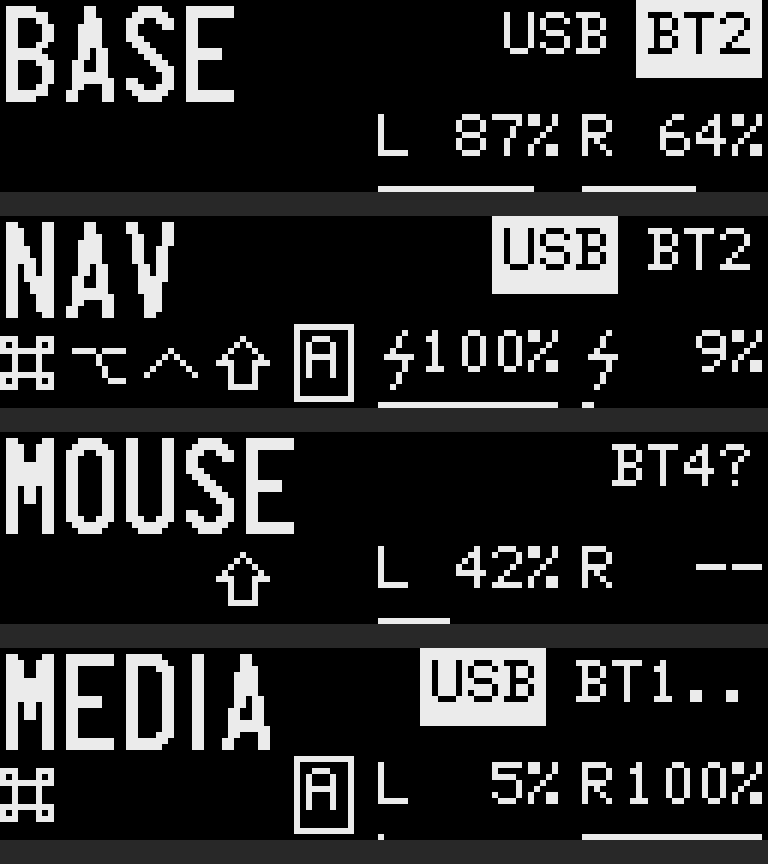
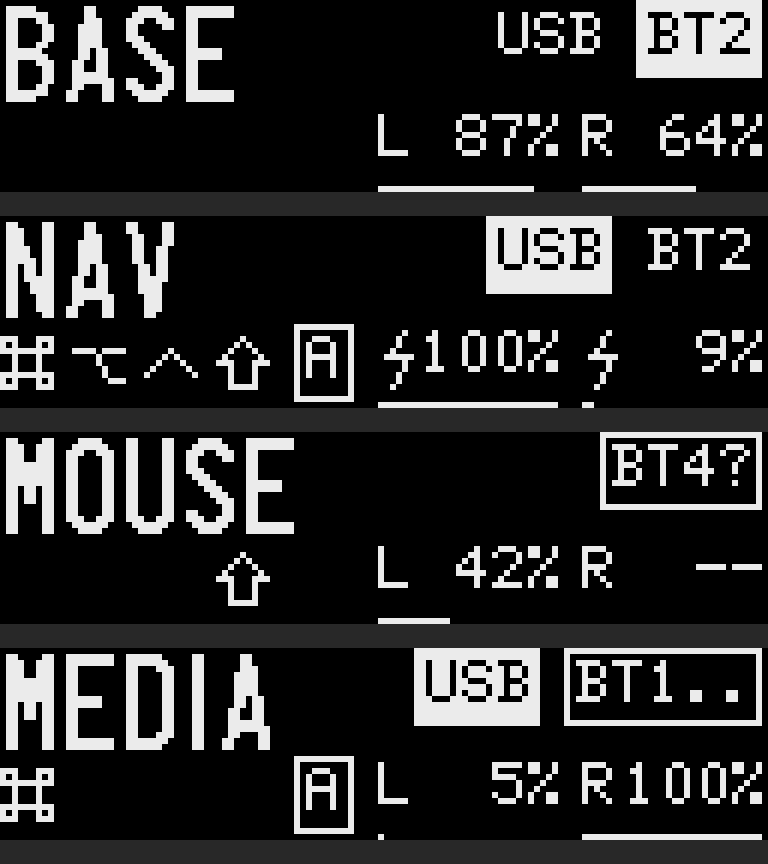
screen: the chosen output is outlined when it cannot be used
The USB/Bluetooth toggle sets a preference, and with only one link ready
the keyboard types on that one whatever was chosen. Choosing Bluetooth
while its profile was unpaired or its computer away therefore changed
nothing visible. The chosen link now gets an outline when it is not the
one in use, next to the filled box of the one that is.

Not yet seen on the panel.

diff --git a/src/status_view.rs b/src/status_view.rs
@@ -11,7 +11,9 @@
 //!   top-right     the links to the computer, `USB` when one is plugged in
 //!                 and `BT` with the profile number: plain when connected,
 //!                 `..` paired and looking for its computer, `?` nothing
-//!                 paired. The one in the filled box is where typing goes.
+//!                 paired. The one in the filled box is where typing goes;
+//!                 an outline marks the one chosen with the toggle when
+//!                 it cannot be used.
 //!   bottom-left   the modifiers held now, as their Mac symbols in home-row
 //!                 order (Cmd Opt Ctrl Shift), and a boxed A for Caps Lock
 //!   bottom-right  both batteries, left then right, each with a bar under it;
@@ -56,6 +58,9 @@ pub struct View<'a> {
     pub profile: u8,
     pub bt: Bt,
     pub active: Active,
+    /// The output chosen with the USB/Bluetooth toggle is Bluetooth. Shown
+    /// as an outline when the choice cannot be honoured.
+    pub prefer_bluetooth: bool,
     /// Left battery, percent.
     pub left: Option<u8>,
     /// Right battery, percent; `None` when unknown.
@@ -159,19 +164,28 @@ fn battery<D: DrawTarget<Color = BinaryColor>>(d: &mut D, right: i32, label: cha
     }
 }
 
-/// A word on the top line with its left edge at `x`; `active` draws it
-/// dark on a filled box.
-fn tag<D: DrawTarget<Color = BinaryColor>>(d: &mut D, x: i32, text: &str, active: bool) {
+#[derive(Clone, Copy, PartialEq)]
+enum Tag {
+    Plain,
+    Outlined,
+    Filled,
+}
+
+/// A word on the top line with its left edge at `x`.
+fn tag<D: DrawTarget<Color = BinaryColor>>(d: &mut D, x: i32, text: &str, style: Tag) {
     let small = FontRenderer::new::<fonts::u8g2_font_6x12_tr>();
     let w = text.len() as u32 * 6;
-    let color = if active {
-        Rectangle::new(Point::new(x - 2, 0), Size::new(w + 3, 13))
-            .into_styled(PrimitiveStyle::with_fill(ON))
-            .draw(d)
-            .ok();
-        FontColor::Transparent(BinaryColor::Off)
-    } else {
-        FontColor::Transparent(ON)
+    let bounds = Rectangle::new(Point::new(x - 2, 0), Size::new(w + 3, 13));
+    let color = match style {
+        Tag::Filled => {
+            bounds.into_styled(PrimitiveStyle::with_fill(ON)).draw(d).ok();
+            FontColor::Transparent(BinaryColor::Off)
+        }
+        Tag::Outlined => {
+            bounds.into_styled(PrimitiveStyle::with_stroke(ON, 1)).draw(d).ok();
+            FontColor::Transparent(ON)
+        }
+        Tag::Plain => FontColor::Transparent(ON),
     };
     small
         .render_aligned(text, Point::new(x, 1), VerticalPosition::Top, HorizontalAlignment::Left, color, d)
@@ -197,9 +211,22 @@ pub fn draw<D: DrawTarget<Color = BinaryColor>>(d: &mut D, v: &View) {
     };
     let bt_w = bt.len() as i32 * 6;
     let bt_x = 126 - bt_w;
-    tag(d, bt_x, bt.as_str(), v.active == Active::Bluetooth);
+    // Filled = carrying the typing. Outlined = chosen with the toggle but
+    // not usable, so the typing has fallen back to the other link (or goes
+    // nowhere): Bluetooth chosen while its profile is not connected, or USB
+    // chosen with no computer on the cable.
+    let style = |active: bool, chosen: bool| {
+        if active {
+            Tag::Filled
+        } else if chosen {
+            Tag::Outlined
+        } else {
+            Tag::Plain
+        }
+    };
+    tag(d, bt_x, bt.as_str(), style(v.active == Active::Bluetooth, v.prefer_bluetooth));
     if v.usb {
-        tag(d, bt_x - 6 - 18, "USB", v.active == Active::Usb);
+        tag(d, bt_x - 7 - 18, "USB", style(v.active == Active::Usb, !v.prefer_bluetooth));
     }
 
     // Bottom-left: held modifiers in home-row order, then Caps Lock.

diff --git a/vendor/rmk/rmk/src/display/mod.rs b/vendor/rmk/rmk/src/display/mod.rs
@@ -131,6 +131,11 @@ pub struct RenderContext {
     /// PARIX PATCH: a computer has configured the USB port.
     #[cfg(feature = "_ble")]
     pub usb_connected: bool,
+    /// PARIX PATCH: the output chosen with the USB/BLE toggle. It is used
+    /// when both links are ready; with only one ready, that one is used
+    /// whatever the choice.
+    #[cfg(feature = "_ble")]
+    pub preferred_output: rmk_types::connection::ConnectionType,
     /// Whether the central is connected (only meaningful on peripherals).
     #[cfg(feature = "split")]
     pub central_connected: bool,
@@ -169,6 +174,8 @@ impl Default for RenderContext {
             active_output: None,
             #[cfg(feature = "_ble")]
             usb_connected: false,
+            #[cfg(feature = "_ble")]
+            preferred_output: rmk_types::connection::ConnectionType::Ble,
             #[cfg(feature = "split")]
             central_connected: false,
             #[cfg(feature = "split")]
@@ -450,6 +457,7 @@ where
         self.ctx.ble_status = event.0.ble;
         self.ctx.active_output = event.0.decide_active();
         self.ctx.usb_connected = event.0.usb == rmk_types::connection::UsbState::Configured;
+        self.ctx.preferred_output = event.0.preferred;
         self.render().await;
     }
 
@@ -499,6 +507,7 @@ where
             let status = crate::state::current_connection_status();
             self.ctx.active_output = status.decide_active();
             self.ctx.usb_connected = status.usb == rmk_types::connection::UsbState::Configured;
+            self.ctx.preferred_output = status.preferred;
         }
 
         self.pending_render = true;

diff --git a/src/status.rs b/src/status.rs
@@ -78,6 +78,7 @@ impl DisplayRenderer<BinaryColor> for StatusRenderer {
                 profile: ctx.ble_status.profile,
                 bt,
                 active,
+                prefer_bluetooth: ctx.preferred_output == ConnectionType::Ble,
                 left: percent(&ctx.battery),
                 right: ctx.peripheral_batteries.first().and_then(|b| percent(b)),
                 right_linked: ctx.peripherals_connected.first().copied().unwrap_or(false),

diff --git a/README.md b/README.md
@@ -118,7 +118,7 @@ The left half has a small screen (the right has the trackpad in its place):
 | Where | What |
 |---|---|
 | Top left | The layer in use |
-| Top right | The links to your computer: `USB` when one is plugged in, and `BT` with the profile number (1–4). **The one in the filled box is where your typing is going.** `BT2` alone = connected; `BT2..` = paired, looking for its computer; `BT2?` = nothing paired on this profile, open for pairing. Space + N switches between the two when both are connected |
+| Top right | The links to your computer: `USB` when one is plugged in, and `BT` with the profile number (1–4). **The one in the filled box is where your typing is going.** `BT2` alone = connected; `BT2..` = paired, looking for its computer; `BT2?` = nothing paired on this profile, open for pairing. Space + N chooses between the two. If the one you chose cannot be used (Bluetooth chosen but its computer is not connected), typing stays on the other and your choice is shown as an **outline**; it takes over as soon as it connects |
 | Bottom left | The modifiers held right now, as their Mac symbols (⌘ ⌥ ⌃ ⇧), and a boxed **A** while Caps Lock is on |
 | Bottom right | Both batteries, left then right, with a bar under each. A bolt replaces the letter while that half is plugged in and charging; `--` means the right half is not linked |
 
